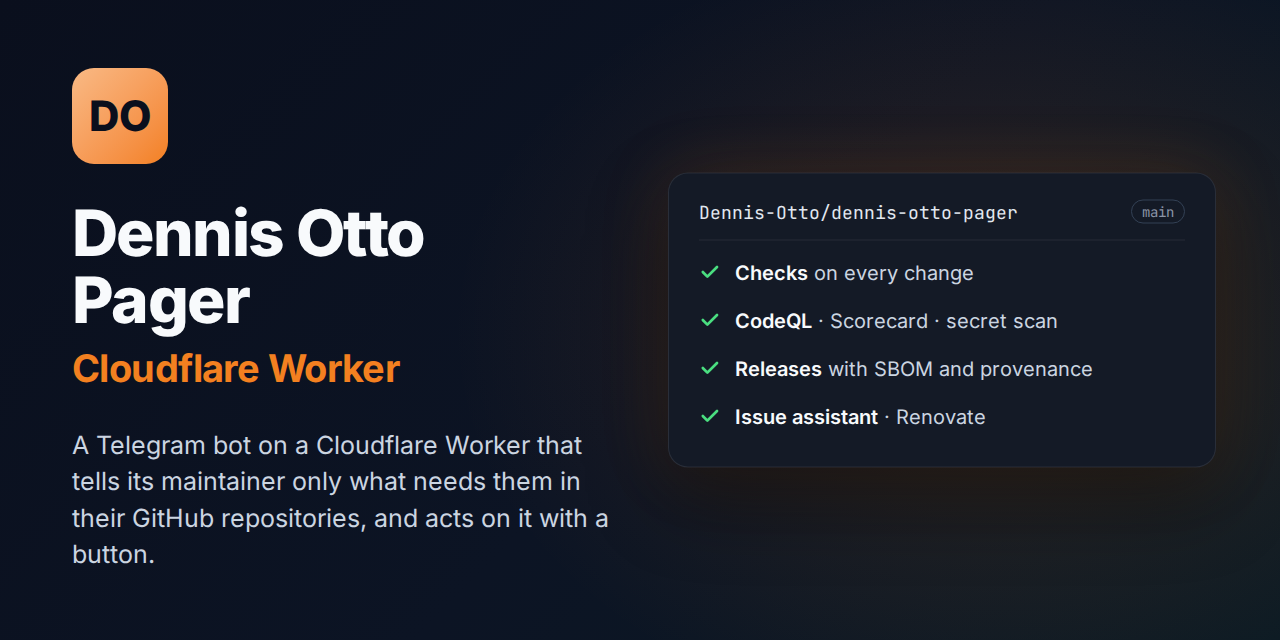
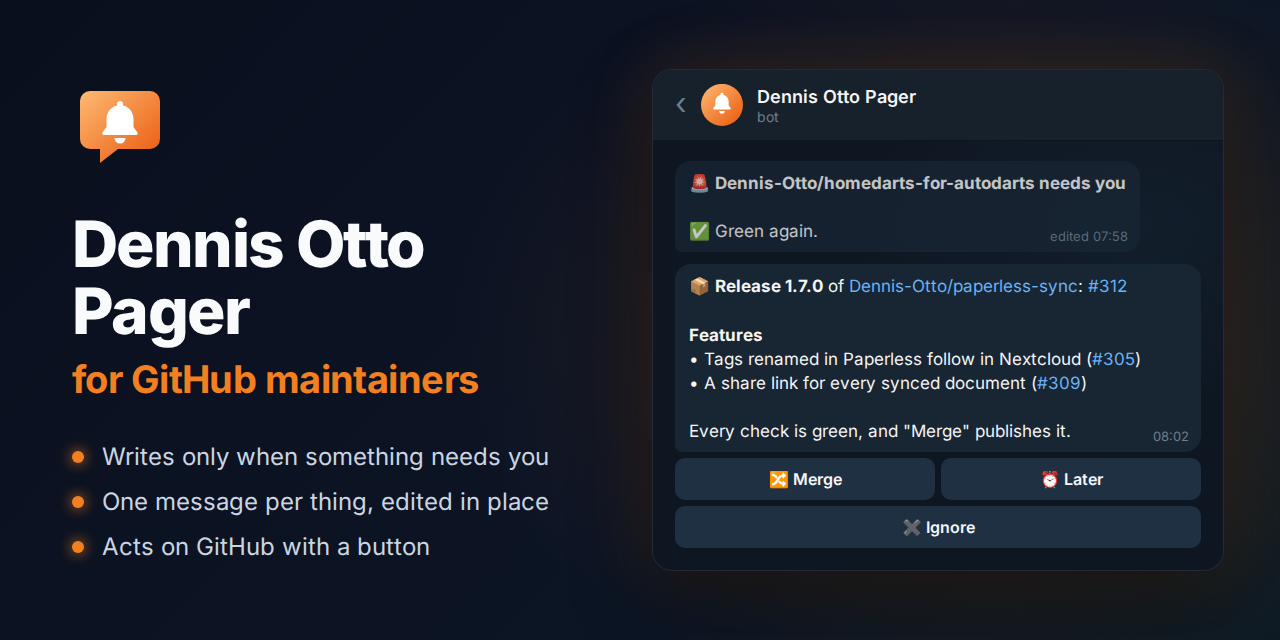
docs: the social preview shows a message of the pager with its buttons, not a list of checks (#91)
## Summary

The social preview of the repository showed the template's default
panel: `Dennis-Otto/dennis-otto-pager`, `main` and four generic lines
about checks, which say nothing about the pager. It now shows what the
pager does, in the style of the previews of issue-assistant and
paperless-sync: the icon, the name, the accent subtitle and three short
lines on the left, and on the right the pager's chat in Telegram's dark
theme.

![The new social
preview](https://github.com/Dennis-Otto/dennis-otto-pager/blob/662321148272f1a905619d4baa5f68f11fc9ed8c/.github/social-preview.png?raw=true)

## Changes

- `.github/social-preview.html`: the right side is the chat of the
pager. Its newest message is a release of paperless-sync, ready to
merge, with its notes and the buttons 🔀 Merge, ⏰ Later and ✖ Ignore;
above it, dimmed, an alarm of homedarts-for-autodarts that the pager
edited in place to "✅ Green again." (`edited 07:58`). The left side has
a new icon, a speech bubble with a bell in the pager's accent (#f38020),
in place of the generic DO monogram, the subtitle "for GitHub
maintainers" (the right side already says Telegram) and three lines in
the words of the README: writes only when something needs you; one
message per thing, edited in place; acts on GitHub with a button. The
emoji come in color through an emoji font limited to their ranges, as
Telegram shows them.
- `.github/social-preview.png`: rendered with `bash
scripts/social-preview.sh`.
[…]

diff --git a/.github/social-preview.html b/.github/social-preview.html
@@ -4,16 +4,22 @@
 <meta charset="utf-8">
 <title>Dennis Otto Pager: social preview</title>
 <!-- scripts/social-preview.sh renders this page into the 1280×640 image that GitHub
-     shows for links to the repository. -->
+     shows for links to the repository. The chat on the right is the pager's own:
+     each text with data-message is what render() of src/render.ts writes for a thing,
+     and each row of its keyboard what keyboard() of src/buttons.ts offers, as
+     test/social-preview.test.ts checks, so a changed word of the pager changes it. -->
 <link rel="preconnect" href="https://fonts.googleapis.com">
 <link rel="stylesheet" href="https://fonts.googleapis.com/css2?family=Inter:wght@400;500;600;700;800&family=JetBrains+Mono:wght@400;600&display=block">
 <style>
+/* The emoji of the pager in color, as Telegram shows them, and every other character in Inter. */
+@font-face { font-family: "Emoji"; src: local("Noto Color Emoji"), local("NotoColorEmoji");
+  unicode-range: U+200D, U+2300-23FF, U+2600-27BF, U+2B00-2BFF, U+FE0F, U+1F000-1FAFF; }
 * { box-sizing: border-box; margin: 0; padding: 0; }
 html, body { width: 1280px; height: 640px; overflow: hidden; }
 body {
   --accent: #f38020;
   position: relative;
-  font-family: "Inter", "Liberation Sans", "FreeSans", sans-serif;
+  font-family: "Emoji", "Inter", "Liberation Sans", "FreeSans", sans-serif;
   color: #f8fafc;
   background:
     radial-gradient(760px 560px at 78% 52%, color-mix(in srgb, var(--accent) 15%, transparent), transparent 72%),
@@ -21,43 +27,87 @@ body {
 }
 .left { position: absolute; left: 72px; top: 0; bottom: 0; width: 540px; display: flex; flex-direction: column; justify-content: center; }
 .logo { width: 96px; height: 96px; margin-bottom: 36px; }
-.logo svg, .logo img { width: 100%; height: 100%; display: block; }
+.logo svg { width: 100%; height: 100%; display: block; }
 h1 { font-size: 64px; font-weight: 800; line-height: 1.04; letter-spacing: -0.025em; }
 .subtitle { margin-top: 12px; font-size: 38px; font-weight: 700; color: var(--accent); letter-spacing: -0.015em; }
-.text { margin-top: 36px; font-size: 25px; line-height: 1.45; color: #cbd5e1; }
 ul { margin-top: 40px; list-style: none; display: grid; gap: 16px; }
 li { font-size: 24px; color: #cbd5e1; display: flex; align-items: center; gap: 18px; }
 li::before { content: ""; width: 12px; height: 12px; border-radius: 50%; background: var(--accent); box-shadow: 0 0 14px var(--accent); flex: none; }
-.panel { position: absolute; right: 64px; top: 50%; transform: translateY(-50%); width: 548px; }
-.card { background: #141a26; border: 1px solid rgba(255, 255, 255, 0.09); border-radius: 20px; box-shadow: 0 30px 80px rgba(0, 0, 0, 0.45), 0 0 70px color-mix(in srgb, var(--accent) 16%, transparent); }
-.muted { color: #8b95a7; }
-.mono { font-family: "JetBrains Mono", "Liberation Mono", monospace; }
 
-.checks { padding: 26px 30px; }
-.repo { display: flex; align-items: center; justify-content: space-between; font-size: 18px; color: #e2e8f0; padding-bottom: 16px; margin-bottom: 8px; border-bottom: 1px solid rgba(255, 255, 255, 0.08); }
-.branch { font-size: 14px; color: #8b95a7; border: 1px solid #334155; border-radius: 999px; padding: 2px 10px; }
-.check { display: flex; align-items: center; gap: 14px; font-size: 20px; line-height: 2.4; color: #cbd5e1; }
-.check svg { width: 22px; height: 22px; color: #4ade80; flex: none; }
-.check b { color: #f8fafc; font-weight: 600; }
-.monogram { width: 96px; height: 96px; border-radius: 22px; display: grid; place-items: center; font-size: 42px; font-weight: 800; color: #0a0f1d;
-  background: linear-gradient(135deg, color-mix(in srgb, var(--accent) 55%, white), var(--accent)); }
-
+/* The chat of the pager in Telegram's dark theme. */
+.panel { position: absolute; right: 56px; top: 50%; transform: translateY(-50%); width: 572px; }
+.chat { background: #0e1621; border: 1px solid rgba(255, 255, 255, 0.09); border-radius: 20px; overflow: hidden;
+  box-shadow: 0 30px 80px rgba(0, 0, 0, 0.45), 0 0 70px color-mix(in srgb, var(--accent) 16%, transparent); }
+.bar { display: flex; align-items: center; gap: 14px; padding: 14px 22px; background: #17212b; border-bottom: 1px solid rgba(0, 0, 0, 0.35); }
+.back { font-size: 30px; line-height: 1; color: #6d7f8f; margin-top: -4px; }
+.avatar { width: 42px; height: 42px; flex: none; }
+.avatar svg { width: 100%; height: 100%; display: block; }
+.name { font-size: 18px; font-weight: 600; color: #f5f5f5; }
+.status { font-size: 14px; color: #6d7f8f; margin-top: 1px; }
+.messages { display: flex; flex-direction: column; align-items: flex-start; gap: 12px; padding: 20px 22px 22px;
+  background: radial-gradient(420px 260px at 85% 20%, rgba(106, 179, 243, 0.05), transparent 70%); }
+.message { width: 100%; }
+.bubble { position: relative; background: #182533; border-radius: 16px 16px 16px 6px; padding: 10px 14px 9px; font-size: 17px; line-height: 1.42; color: #f5f5f5; }
+.message.old { width: auto; opacity: 0.78; }
+.text { white-space: pre-wrap; }
+.text b { font-weight: 700; }
+.text a { color: #6ab3f3; text-decoration: none; }
+/* Room for the time on the last line, as Telegram leaves it. */
+.text::after { content: ""; display: inline-block; width: var(--meta); }
+.meta { position: absolute; right: 12px; bottom: 7px; font-size: 13px; color: #6d7f8f; }
+.keyboard { display: grid; gap: 6px; margin-top: 6px; }
+.row { display: grid; grid-auto-flow: column; grid-auto-columns: 1fr; gap: 6px; }
+.row span { display: flex; align-items: center; justify-content: center; height: 42px; border-radius: 10px;
+  background: #1f3043; font-size: 16px; font-weight: 600; color: #f5f5f5; }
 </style>
 </head>
 <body>
 <div class="left">
-  <div class="logo"><div class="monogram">DO</div></div>
+  <div class="logo"><svg viewBox="0 0 96 96" xmlns="http://www.w3.org/2000/svg" role="img" aria-label="A speech bubble with a bell">
+    <defs><linearGradient id="g" x1="0" y1="0" x2="1" y2="1"><stop offset="0" stop-color="#fdba74"/><stop offset="1" stop-color="#ea580c"/></linearGradient></defs>
+    <path d="M18 12h60a10 10 0 0 1 10 10v38a10 10 0 0 1-10 10H46L28 84V70H18A10 10 0 0 1 8 60V22a10 10 0 0 1 10-10z" fill="url(#g)"/>
+    <path d="M48 22a3 3 0 0 1 3 3v1.6c6.4 1.4 10.5 7 10.5 13.6v7.8l4 5.4a1.6 1.6 0 0 1-1.3 2.6H31.8a1.6 1.6 0 0 1-1.3-2.6l4-5.4v-7.8c0-6.6 4.1-12.2 10.5-13.6V25a3 3 0 0 1 3-3z" fill="#fff"/>
+    <path d="M42.5 59h11a5.5 5.5 0 0 1-11 0z" fill="#fff"/>
+  </svg></div>
   <h1>Dennis Otto Pager</h1>
-  <div class="subtitle">Cloudflare Worker</div>
-  <p class="text">A Telegram bot on a Cloudflare Worker that tells its maintainer only what needs them in their GitHub repositories, and acts on it with a button.</p>
+  <div class="subtitle">for GitHub maintainers</div>
+  <ul>
+    <li>Writes only when something needs you</li>
+    <li>One message per thing, edited in place</li>
+    <li>Acts on GitHub with a button</li>
+  </ul>
 </div>
 <div class="panel">
-  <div class="card checks">
-    <div class="repo"><span class="mono">Dennis-Otto/dennis-otto-pager</span><span class="branch mono">main</span></div>
-    <div class="check"><svg viewBox="0 0 16 16" width="16" height="16"><path fill="currentColor" d="M13.8 3.3a1 1 0 0 1 0 1.4l-7 7a1 1 0 0 1-1.4 0l-3.2-3.2a1 1 0 1 1 1.4-1.4l2.5 2.5 6.3-6.3a1 1 0 0 1 1.4 0z"/></svg><span><b>Checks</b> on every change</span></div>
-    <div class="check"><svg viewBox="0 0 16 16" width="16" height="16"><path fill="currentColor" d="M13.8 3.3a1 1 0 0 1 0 1.4l-7 7a1 1 0 0 1-1.4 0l-3.2-3.2a1 1 0 1 1 1.4-1.4l2.5 2.5 6.3-6.3a1 1 0 0 1 1.4 0z"/></svg><span><b>CodeQL</b> · Scorecard · secret scan</span></div>
-    <div class="check"><svg viewBox="0 0 16 16" width="16" height="16"><path fill="currentColor" d="M13.8 3.3a1 1 0 0 1 0 1.4l-7 7a1 1 0 0 1-1.4 0l-3.2-3.2a1 1 0 1 1 1.4-1.4l2.5 2.5 6.3-6.3a1 1 0 0 1 1.4 0z"/></svg><span><b>Releases</b> with SBOM and provenance</span></div>
-    <div class="check"><svg viewBox="0 0 16 16" width="16" height="16"><path fill="currentColor" d="M13.8 3.3a1 1 0 0 1 0 1.4l-7 7a1 1 0 0 1-1.4 0l-3.2-3.2a1 1 0 1 1 1.4-1.4l2.5 2.5 6.3-6.3a1 1 0 0 1 1.4 0z"/></svg><span><b>Issue assistant</b> · Renovate</span></div>
+  <div class="chat">
+    <div class="bar">
+      <span class="back">‹</span>
+      <div class="avatar"><svg viewBox="0 0 96 96" xmlns="http://www.w3.org/2000/svg">
+        <circle cx="48" cy="48" r="48" fill="url(#g)"/>
+        <path d="M48 20a3.4 3.4 0 0 1 3.4 3.4v1.8c7.2 1.6 11.8 7.9 11.8 15.3v8.8l4.5 6.1a1.8 1.8 0 0 1-1.5 2.9H29.8a1.8 1.8 0 0 1-1.5-2.9l4.5-6.1v-8.8c0-7.4 4.6-13.7 11.8-15.3v-1.8A3.4 3.4 0 0 1 48 20z" fill="#fff"/>
+        <path d="M41.8 62h12.4a6.2 6.2 0 0 1-12.4 0z" fill="#fff"/>
+      </svg></div>
+      <div><div class="name">Dennis Otto Pager</div><div class="status">bot</div></div>
+    </div>
+    <div class="messages">
+      <div class="message old">
+        <div class="bubble" style="--meta: 92px"><div class="text" data-message="alarm">🚨 <b>Dennis-Otto/homedarts-for-autodarts needs you</b>
+
+✅ Green again.</div><span class="meta">edited 07:58</span></div>
+      </div>
+      <div class="message">
+        <div class="bubble" style="--meta: 44px"><div class="text" data-message="release">📦 <b>Release 1.7.0</b> of <a>Dennis-Otto/paperless-sync</a>: <a>#312</a>
+
+<b>Features</b>
+• Tags renamed in Paperless follow in Nextcloud (<a>#305</a>)
+• A share link for every synced document (<a>#309</a>)
+
+Every check is green, and "Merge" publishes it.</div><span class="meta">08:02</span></div>
+        <div class="keyboard">
+          <div class="row" data-message="release"><span>🔀 Merge</span><span>⏰ Later</span></div>
+          <div class="row" data-message="release"><span>✖ Ignore</span></div>
+        </div>
+      </div>
+    </div>
   </div>
 </div>
 </body>

diff --git a/test/social-preview.test.ts b/test/social-preview.test.ts
@@ -1,0 +1,122 @@
+// The social preview, .github/social-preview.html, draws messages of the pager as
+// Telegram shows them. Each is the text that render() writes and the keyboard that
+// keyboard() offers for a thing, so the picture can't keep a word, an emoji or a
+// button that the pager no longer has: change the page with the pager, and the
+// screenshot bot renders .github/social-preview.png anew.
+import { describe, expect, it } from "vitest";
+
+import page from "../.github/social-preview.html?raw";
+import { keyboard } from "../src/buttons.ts";
+import { render } from "../src/render.ts";
+import type { Item } from "../src/store.ts";
+import { texts } from "../src/texts.ts";
+import { base, START } from "./helpers.ts";
+
+const en = texts("en");
+
+/** The things whose messages the preview draws, by their data-message in the page. */
+const THINGS = {
+  alarm: {
+    ...base("alarm"),
+    repo: "Dennis-Otto/homedarts-for-autodarts",
+    kind: "alarm",
+    state: "recovered",
+    entries: [],
+  },
+  release: {
+    ...base("release"),
+    repo: "Dennis-Otto/paperless-sync",
+    kind: "release",
+    state: "ready",
+    number: 312,
+    version: "1.7.0",
+    sha: "4f1c2ab",
+    url: "https://github.com/Dennis-Otto/paperless-sync/pull/312",
+    notes: {
+      lines: [
+        { heading: "Features" },
+        { item: "Tags renamed in Paperless follow in Nextcloud (#305)" },
+        { item: "A share link for every synced document (#309)" },
+      ],
+      more: 0,
+      breaking: false,
+    },
+  },
+} satisfies Record<string, Item>;
+
+/** The two groups of each match of a pattern, such as a name and its text. */
+function pairs(text: string, pattern: RegExp): [string, string][] {
+  return [...text.matchAll(pattern)].map(([, first = "", second = ""]) => [
+    first,
+    second,
+  ]);
+}
+
+/** Each text of a message in the page, by its data-message. */
+function messages(): Map<string, string> {
+  const found = new Map<string, string>();
+  for (const [name, text] of pairs(
+    page,
+    /<div class="text" data-message="(\w+)">([\s\S]*?)<\/div>/g,
+  )) {
+    expect(found.has(name), `a second text of ${name}`).toBe(false);
+    found.set(name, text);
+  }
+  return found;
+}
+
+/** The labels of the buttons of each message in the page, row by row. */
+function keyboards(): Map<string, string[][]> {
+  const found = new Map<string, string[][]>();
+  for (const [name, row] of pairs(
+    page,
+    /<div class="row" data-message="(\w+)">([\s\S]*?)<\/div>/g,
+  )) {
+    const labels = [...row.matchAll(/<span>([^<]*)<\/span>/g)].map(
+      ([, label = ""]) => label,
+    );
+    found.set(name, [...(found.get(name) ?? []), labels]);
+  }
+  return found;
+}
+
+/** A message as the page draws it: the HTML of Telegram, without the addresses of its links. */
+function drawn(item: Item): string {
+  return render(item, START, en).replace(/<a href="[^"]*">/g, "<a>");
+}
+
+describe("the social preview", () => {
+  it("draws each message as the pager writes it", () => {
+    const shown = messages();
+    expect([...shown.keys()].sort()).toEqual(Object.keys(THINGS).sort());
+    for (const [name, item] of Object.entries(THINGS)) {
+      expect(shown.get(name), name).toBe(drawn(item));
+    }
+  });
+
+  it("draws the buttons that each message offers", () => {
+    const shown = keyboards();
+    for (const name of shown.keys()) {
+      expect(THINGS, name).toHaveProperty(name);
+    }
+    for (const [name, item] of Object.entries(THINGS)) {
+      const offered = keyboard(item, en).map((row) =>
+        row.map((button) => button.text),
+      );
+      expect(shown.get(name) ?? [], name).toEqual(offered);
+    }
+  });
+
+  it("draws the release ready to merge and the alarm green again", () => {
+    // The two states that the three lines of the preview promise: a button that
+    // acts, and a message that the pager edited in place.
+    expect(drawn(THINGS.release)).toContain(en("message.ready"));
+    expect(
+      keyboard(THINGS.release, en)
+        .flat()
+        .map((button) => button.text),
+    ).toContain(en("button.merge"));
+    expect(drawn(THINGS.alarm)).toContain(en("state.recovered"));
+    expect(keyboard(THINGS.alarm, en)).toEqual([]);
+  });
+});

diff --git a/.github/agents.project.md b/.github/agents.project.md
@@ -24,3 +24,4 @@ This file belongs to the project: the blueprint wrote it once, and its updates l
 - A question of the maintainer's own agents is a thing of the kind `decision`, which `src/control.ts` makes from the body `ask` and whose buttons are its options (`choose` of `src/buttons.ts`); a press saves the answer as `answers/<id>.json` on the branch `pager-answers` of the control repository with `saveAnswer()` of `src/github.ts` ([decision 0008](../docs/decisions/0008-an-agent-reads-its-answer-from-a-branch-of-the-control-repository.md)), through `answerDecision()` of `src/actions.ts`, which a text in the topic of an open question also calls, with `choice` null and the text as its answer (`answerInWords()` of `src/updates.ts`); the body `withdraw` ends an open question without an answer ([decision 0010](../docs/decisions/0010-a-text-in-the-topic-of-a-question-answers-it-and-an-agent-may-take-it-back.md)). The body `report` keeps nothing: it is a message in a topic of its own, with `postInNewTopic()` of `src/topics.ts`.
 - `src/pictures.ts` reads the artifacts of the visual check of a pull request, with the reader of ZIP files of `src/zip.ts`, and picks the album of its largest changes; a new form of report or name of artifact is taught there, with a test in `test/pictures.test.ts`, whose ZIP files come from `test/zips.ts`.
 - The tests run in workerd against the simulated Telegram and GitHub of `test/helpers.ts`, which records each call; nothing goes to the network.
+- The social preview, `.github/social-preview.html`, draws two messages of the pager in its chat: each text with `data-message` is exactly what `render()` of `src/render.ts` writes for a thing of `test/social-preview.test.ts`, without the addresses of its links, and each row of its keyboard what `keyboard()` of `src/buttons.ts` offers. A changed text, emoji or button of the pager makes that test fail: change the page with it, and the screenshot bot renders `.github/social-preview.png` anew, which then needs its upload under Settings → General → Social preview.
